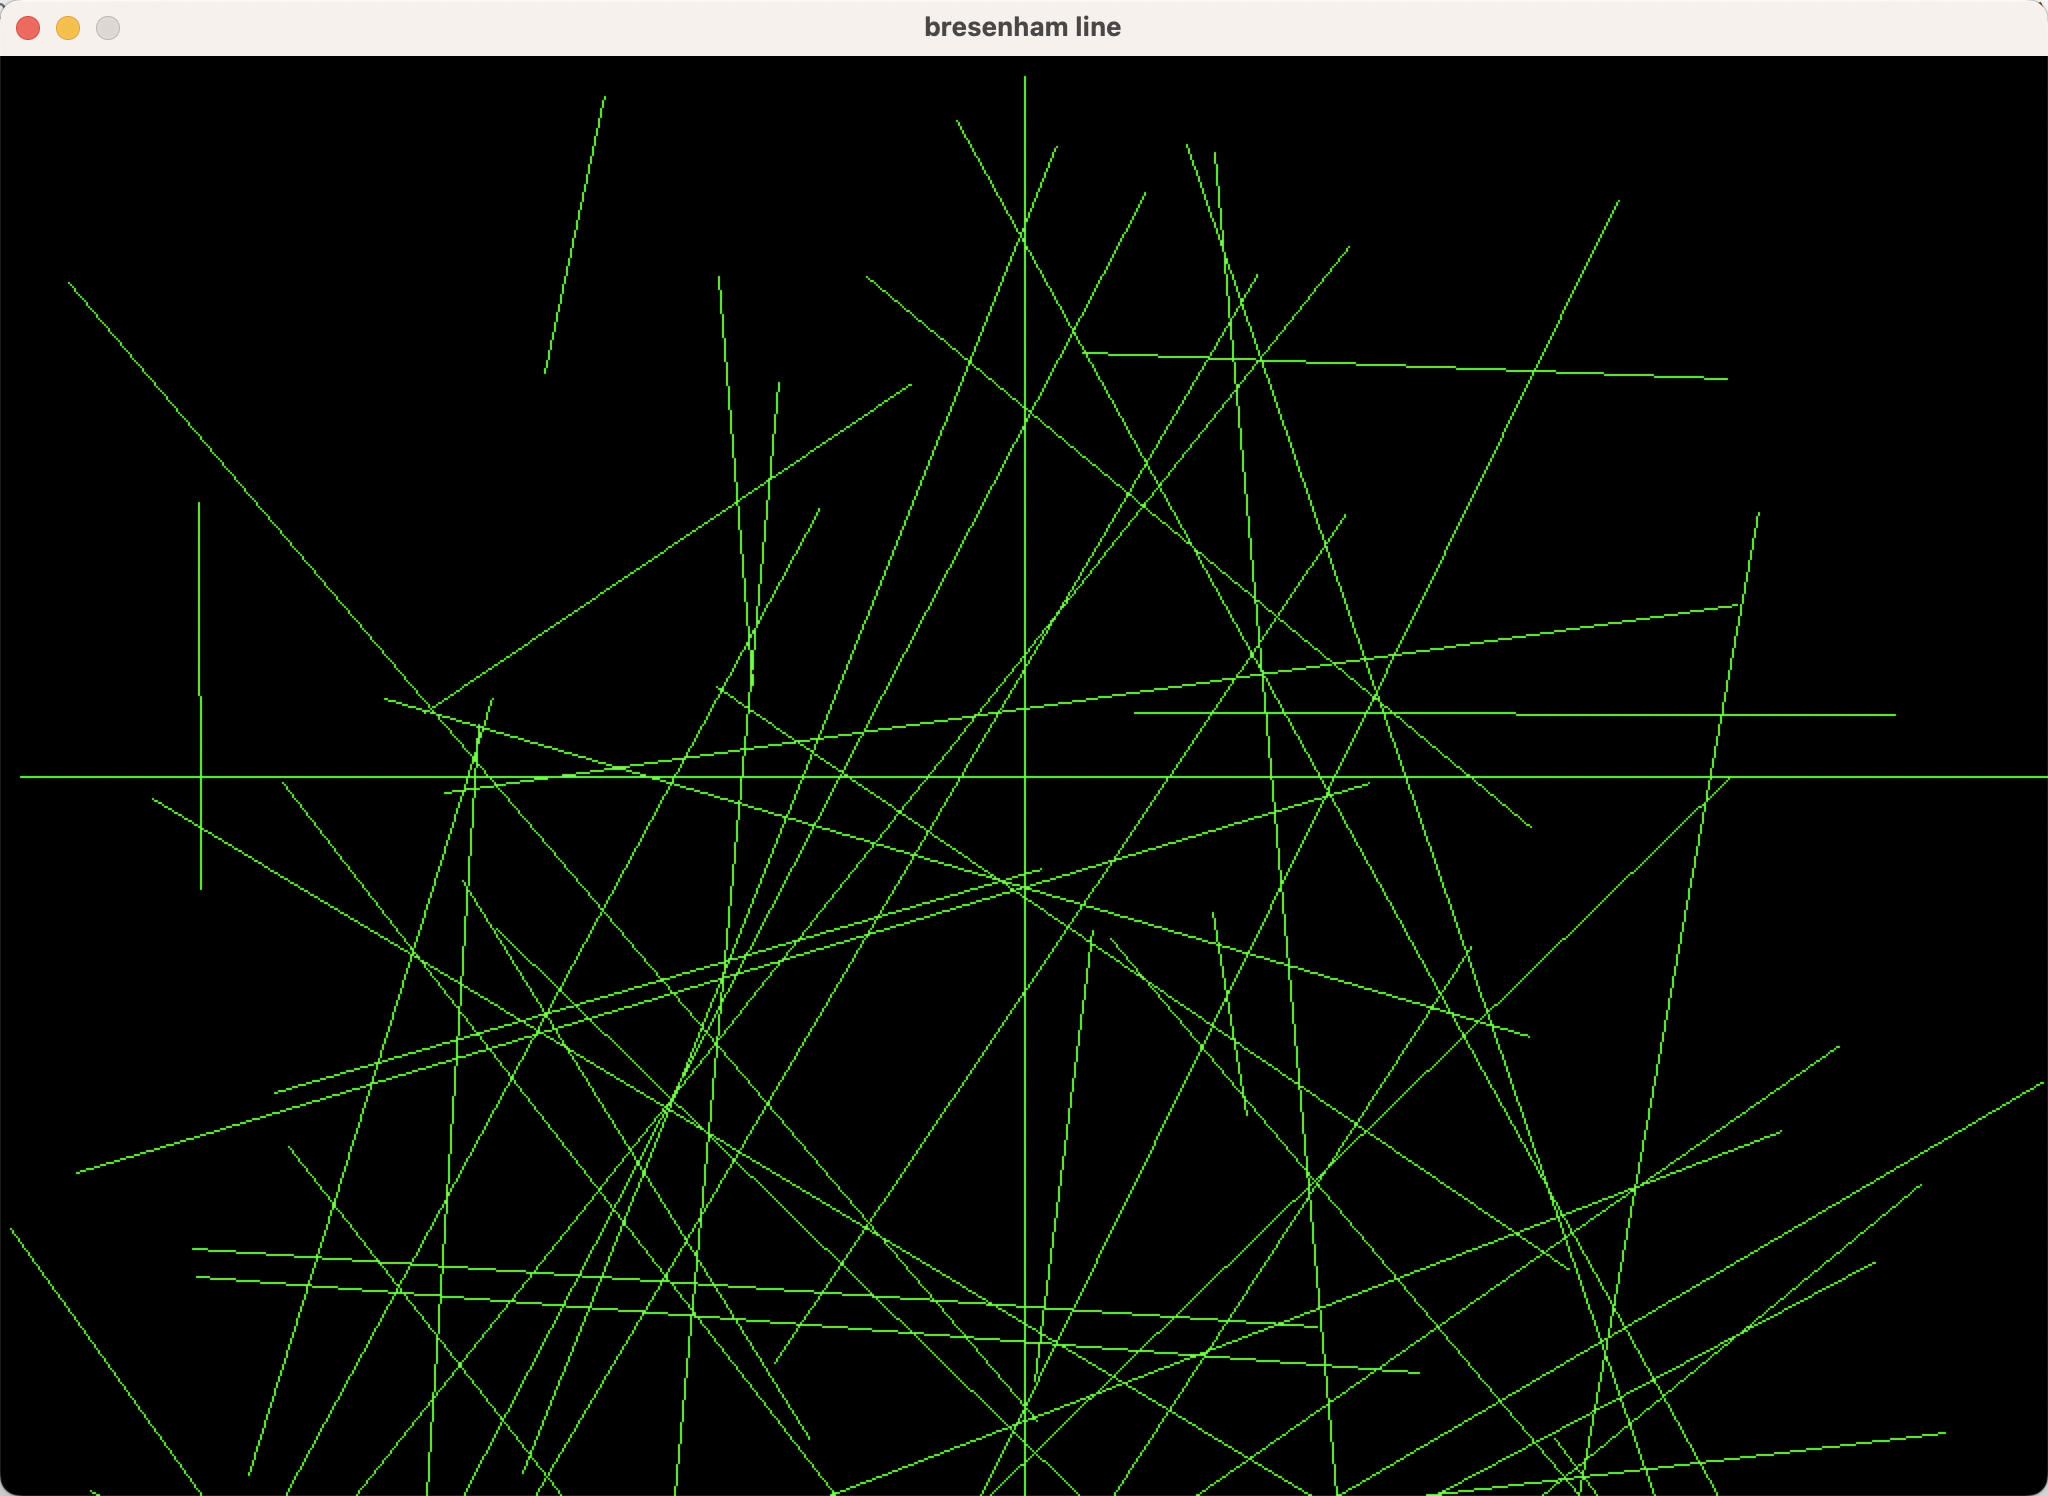
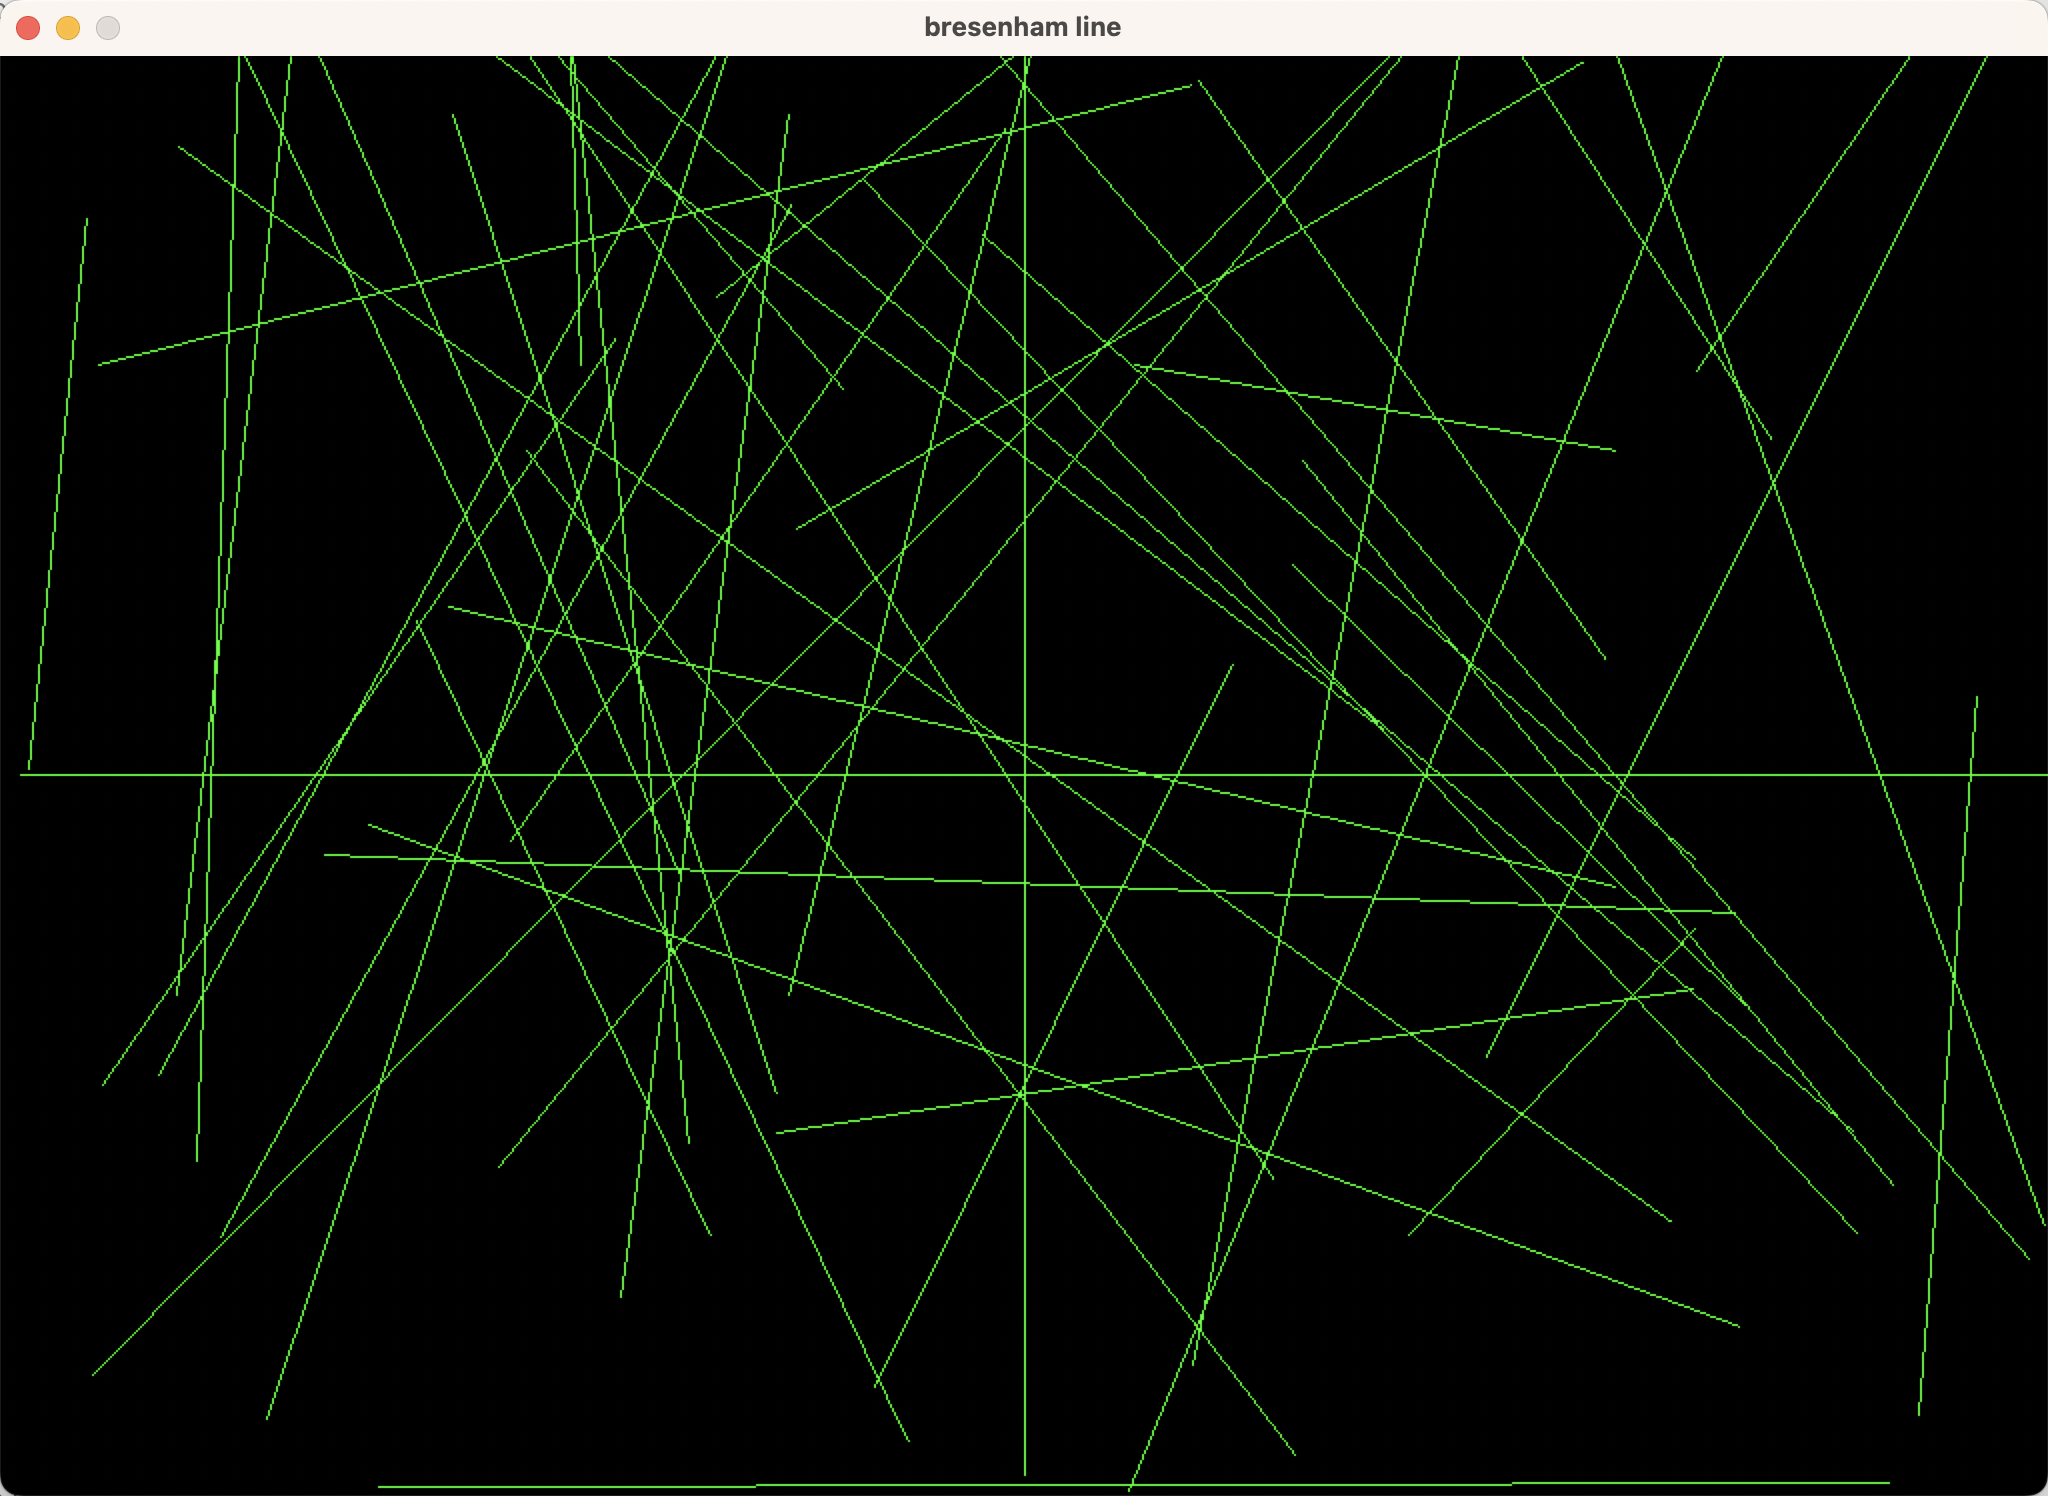
Flip frame buffer vertically

diff --git a/src/renderer.rs b/src/renderer.rs
@@ -1,3 +1,5 @@
+use std::default;
+
 use crate::{
     camera::Camera,
     math::{Mat4, Vec2, Vec3},
@@ -36,25 +38,41 @@ impl Color {
     pub const RED: Self = Self::new(255, 0, 0);
     pub const GREEN: Self = Self::new(0, 255, 0);
     pub const BLUE: Self = Self::new(0, 0, 255);
+    pub const WHITE: Self = Self::new(255, 255, 255);
+
     pub const fn new(r: u8, g: u8, b: u8) -> Self {
         Self { r, g, b }
     }
 }
 
+#[derive(Debug, Clone, Copy, Default)]
+pub struct RendererSettings {
+    pub projection: Projection,
+    pub wireframe: bool,
+}
+#[derive(Debug, Clone, Copy, Default)]
+pub enum Projection {
+    #[default]
+    Perspective,
+    Orthographic,
+}
+
 pub struct Renderer {
     pub camera: Camera,
     pub viewport: Viewport,
+    pub settings: RendererSettings,
     // 帧缓冲
     pub frame_buffer: Vec<u8>,
     // 深度缓冲
     pub depth_buffer: Vec<f32>,
 }
 impl Renderer {
-    pub fn new(camera: Camera, viewport: Viewport) -> Self {
+    pub fn new(camera: Camera, viewport: Viewport, settings: RendererSettings) -> Self {
         let pixel_count = (viewport.width * viewport.height) as usize;
         Self {
             camera,
             viewport,
+            settings,
             frame_buffer: vec![0; pixel_count * 3],
             depth_buffer: vec![std::f32::MAX; pixel_count],
         }
@@ -94,15 +112,22 @@ impl Renderer {
             println!("after view trans, pos: {:?}", vertex.position);
         }
 
+        // TODO 视椎体裁剪
+
         // 投影变换
-        // let projection_transformation = self.camera.frustum.persp_projection_transformation();
-        let projection_transformation = self.camera.frustum.ortho_projection_transformation();
+        let projection_transformation = match self.settings.projection {
+            Projection::Perspective => self.camera.frustum.persp_projection_transformation(),
+            Projection::Orthographic => self.camera.frustum.ortho_projection_transformation(),
+        };
         for vertex in vertices.iter_mut() {
             vertex.position =
                 (projection_transformation * vertex.position.extend(1.0)).to_cartesian_point();
         }
         for vertex in vertices.iter() {
             println!("after proj trans, pos: {:?}", vertex.position);
+            assert!(vertex.position.x.abs() <= 1.0);
+            assert!(vertex.position.y.abs() <= 1.0);
+            assert!(vertex.position.z.abs() <= 1.0);
         }
 
         // 视口变换
@@ -121,21 +146,25 @@ impl Renderer {
                 vertex.position.x, vertex.position.y
             );
         }
-        self.draw_line(
-            Vec2::new(vertices[0].position.x, vertices[0].position.y),
-            Vec2::new(vertices[1].position.x, vertices[1].position.y),
-            Color::RED,
-        );
-        self.draw_line(
-            Vec2::new(vertices[1].position.x, vertices[1].position.y),
-            Vec2::new(vertices[2].position.x, vertices[2].position.y),
-            Color::RED,
-        );
-        self.draw_line(
-            Vec2::new(vertices[2].position.x, vertices[2].position.y),
-            Vec2::new(vertices[0].position.x, vertices[0].position.y),
-            Color::RED,
-        );
+        if self.settings.wireframe {
+            self.draw_line(
+                Vec2::new(vertices[0].position.x, vertices[0].position.y),
+                Vec2::new(vertices[1].position.x, vertices[1].position.y),
+                Color::WHITE,
+            );
+            self.draw_line(
+                Vec2::new(vertices[1].position.x, vertices[1].position.y),
+                Vec2::new(vertices[2].position.x, vertices[2].position.y),
+                Color::WHITE,
+            );
+            self.draw_line(
+                Vec2::new(vertices[2].position.x, vertices[2].position.y),
+                Vec2::new(vertices[0].position.x, vertices[0].position.y),
+                Color::WHITE,
+            );
+        } else {
+            todo!("draw triangle")
+        }
     }
 
     // 绘制像素点

diff --git a/examples/wireframe_rendering.rs b/examples/wireframe_rendering.rs
@@ -8,8 +8,9 @@ use tiny_renderer::{
     camera::Camera,
     math::Vec3,
     model::{custom_cube, custom_mesh, load_glft},
-    renderer::{Color, Renderer, Viewport},
+    renderer::{Color, Renderer, RendererSettings, Viewport},
     transform::translation_mat4,
+    util::flip_vertically,
 };
 
 const WINDOW_WIDTH: u32 = 1024;
@@ -27,7 +28,7 @@ pub fn main() {
 
     // let meshes = load_glft("assets/cube/cube.gltf");
     let meshes = vec![custom_cube()];
-    let mesh_pos = Vec3::new(0.0, 0.0, -10.0);
+    let mesh_pos = Vec3::new(0.0, 0.0, 0.0);
     let model_transformation = translation_mat4(mesh_pos);
 
     let mut camera = Camera::new(
@@ -36,18 +37,27 @@ pub fn main() {
         WINDOW_WIDTH as f32 / WINDOW_HEIGHT as f32,
         60.0f32.to_radians(),
         // Vec3::ZERO
-        Vec3::new(3.0, 3.0, 0.0),
+        Vec3::new(3.0, 4.0, 5.0),
+        // Vec3::new(5.0, 8.0, 0.0),
     );
     camera.look_at(mesh_pos, Vec3::Y);
 
     let viewport = Viewport::new(0, 0, WINDOW_WIDTH, WINDOW_HEIGHT);
-    let mut renderer = Renderer::new(camera, viewport);
+    let settings = RendererSettings {
+        wireframe: true,
+        ..Default::default()
+    };
+    let mut renderer = Renderer::new(camera, viewport, settings);
 
     wind.draw(move |_| {
         renderer.clear();
         renderer.draw(&meshes, model_transformation);
         fltk::draw::draw_image(
-            &renderer.frame_buffer,
+            &flip_vertically(
+                &renderer.frame_buffer,
+                WINDOW_WIDTH as usize,
+                WINDOW_HEIGHT as usize,
+            ),
             0,
             0,
             WINDOW_WIDTH as i32,

diff --git a/examples/bresenham_line.rs b/examples/bresenham_line.rs
@@ -8,7 +8,8 @@ use rand::Rng;
 use tiny_renderer::{
     camera::Camera,
     math::{Vec2, Vec3},
-    renderer::{Color, Renderer, Viewport},
+    renderer::{Color, Renderer, RendererSettings, Viewport},
+    util::flip_vertically,
 };
 
 const WINDOW_WIDTH: u32 = 1024;
@@ -32,7 +33,7 @@ pub fn main() {
         Vec3::ZERO,
     );
     let viewport = Viewport::new(0, 0, WINDOW_WIDTH, WINDOW_HEIGHT);
-    let mut renderer = Renderer::new(camera, viewport);
+    let mut renderer = Renderer::new(camera, viewport, RendererSettings::default());
     wind.draw(move |_| {
         renderer.clear();
         let mut rng = rand::thread_rng();
@@ -60,7 +61,11 @@ pub fn main() {
             );
         }
         fltk::draw::draw_image(
-            &renderer.frame_buffer,
+            &flip_vertically(
+                &renderer.frame_buffer,
+                WINDOW_WIDTH as usize,
+                WINDOW_HEIGHT as usize,
+            ),
             0,
             0,
             WINDOW_WIDTH as i32,

diff --git a/src/util.rs b/src/util.rs
@@ -1,0 +1,13 @@
+pub fn flip_vertically(frame_buffer: &Vec<u8>, width: usize, height: usize) -> Vec<u8> {
+    let mut flipped_frame_buffer = frame_buffer.clone();
+    for y in 0..height / 2 {
+        for x in 0..width {
+            let top_index = (y * width + x) * 3;
+            let bottom_index = ((height - y - 1) * width + x) * 3;
+            flipped_frame_buffer.swap(top_index, bottom_index);
+            flipped_frame_buffer.swap(top_index + 1, bottom_index + 1);
+            flipped_frame_buffer.swap(top_index + 2, bottom_index + 2);
+        }
+    }
+    flipped_frame_buffer
+}

diff --git a/src/camera.rs b/src/camera.rs
@@ -36,8 +36,10 @@ impl Frustum {
             0., 0., 2. / (self.near - self.far), 0.,
             0., 0., 0., 1.,
         ]);
-        ortho_translation * ortho_scale * persp_to_ortho
+        ortho_scale * ortho_translation * persp_to_ortho
     }
+
+    // 正交投影变换矩阵
     #[rustfmt::skip]
     pub fn ortho_projection_transformation(&self) -> Mat4 {
         println!("width_near: {}, height_near: {}", self.width_near(), self.height_near());

diff --git a/src/lib.rs b/src/lib.rs
@@ -3,3 +3,4 @@ pub mod math;
 pub mod model;
 pub mod renderer;
 pub mod transform;
+pub mod util;

diff --git a/README.md b/README.md
@@ -5,7 +5,9 @@
 - [x] glTF模型加载
 - [x] 模型/视图/投影变换
 - [ ] 背面剔除
-- [ ] 深度缓冲
+- [ ] 视椎剔除
+- [ ] 齐次空间裁剪
+- [ ] 深度测试
 - [ ] Blinn–Phong着色模型
 - [x] 重心坐标插值
 
